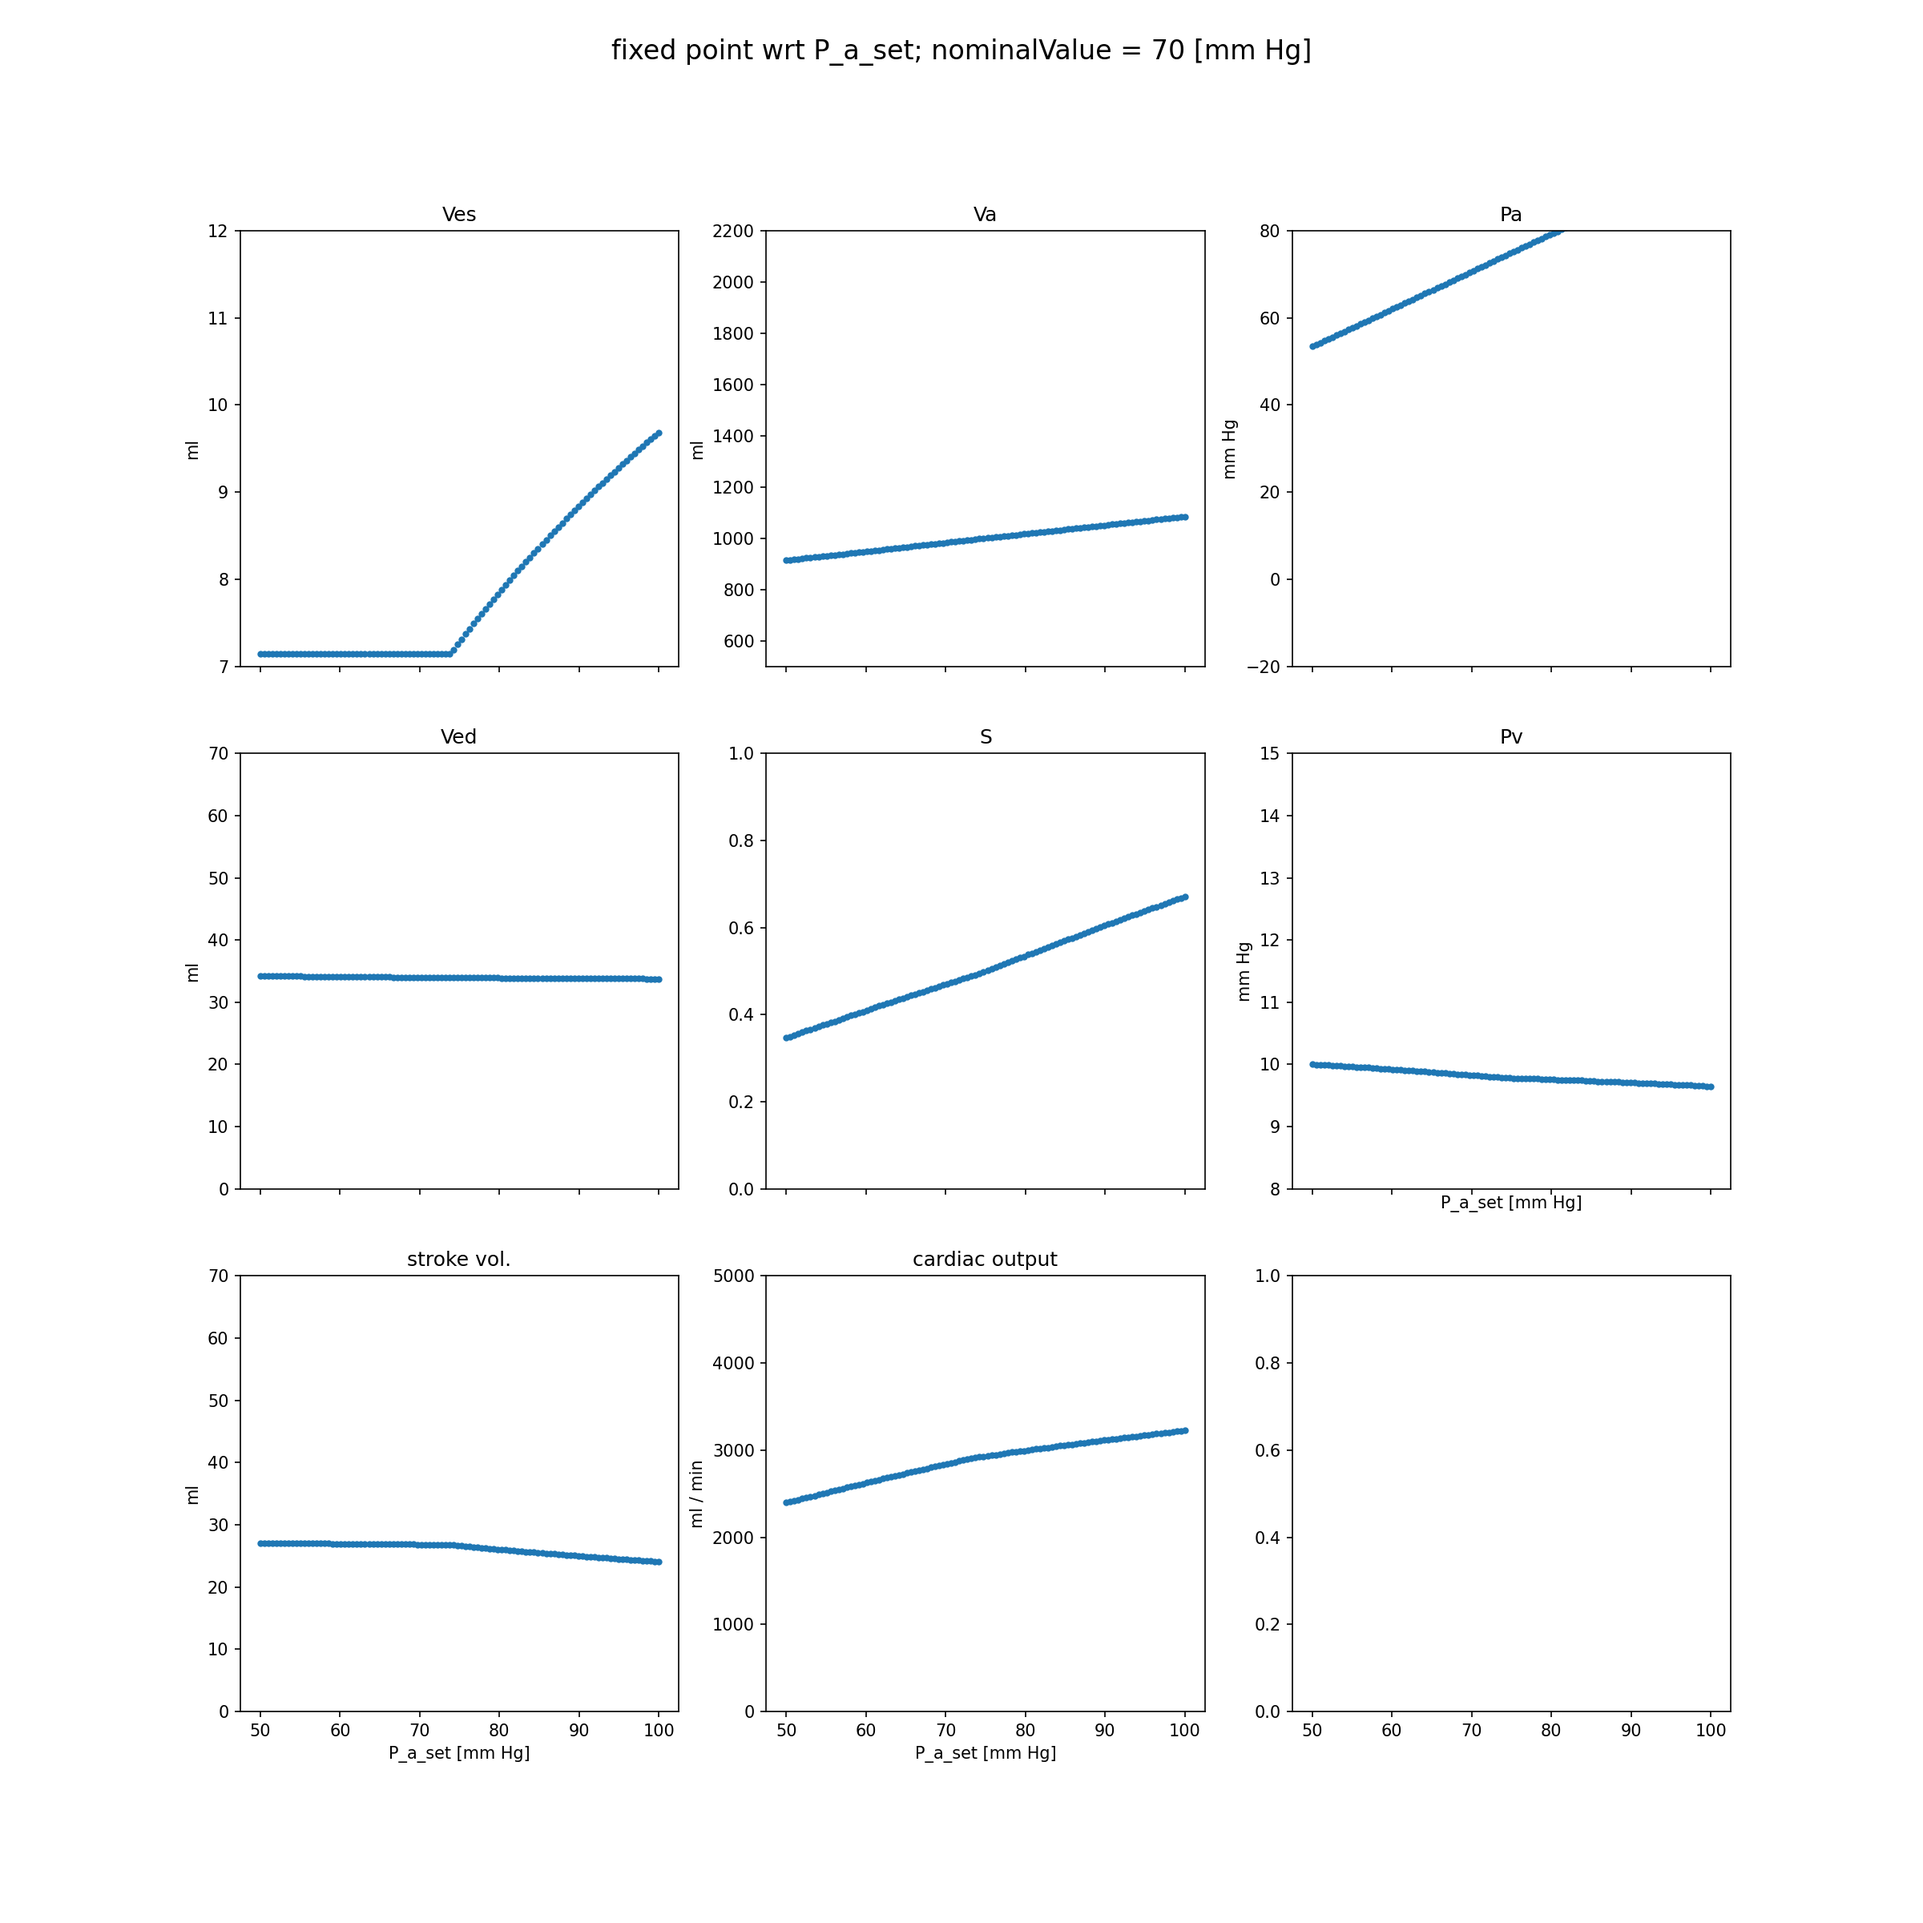
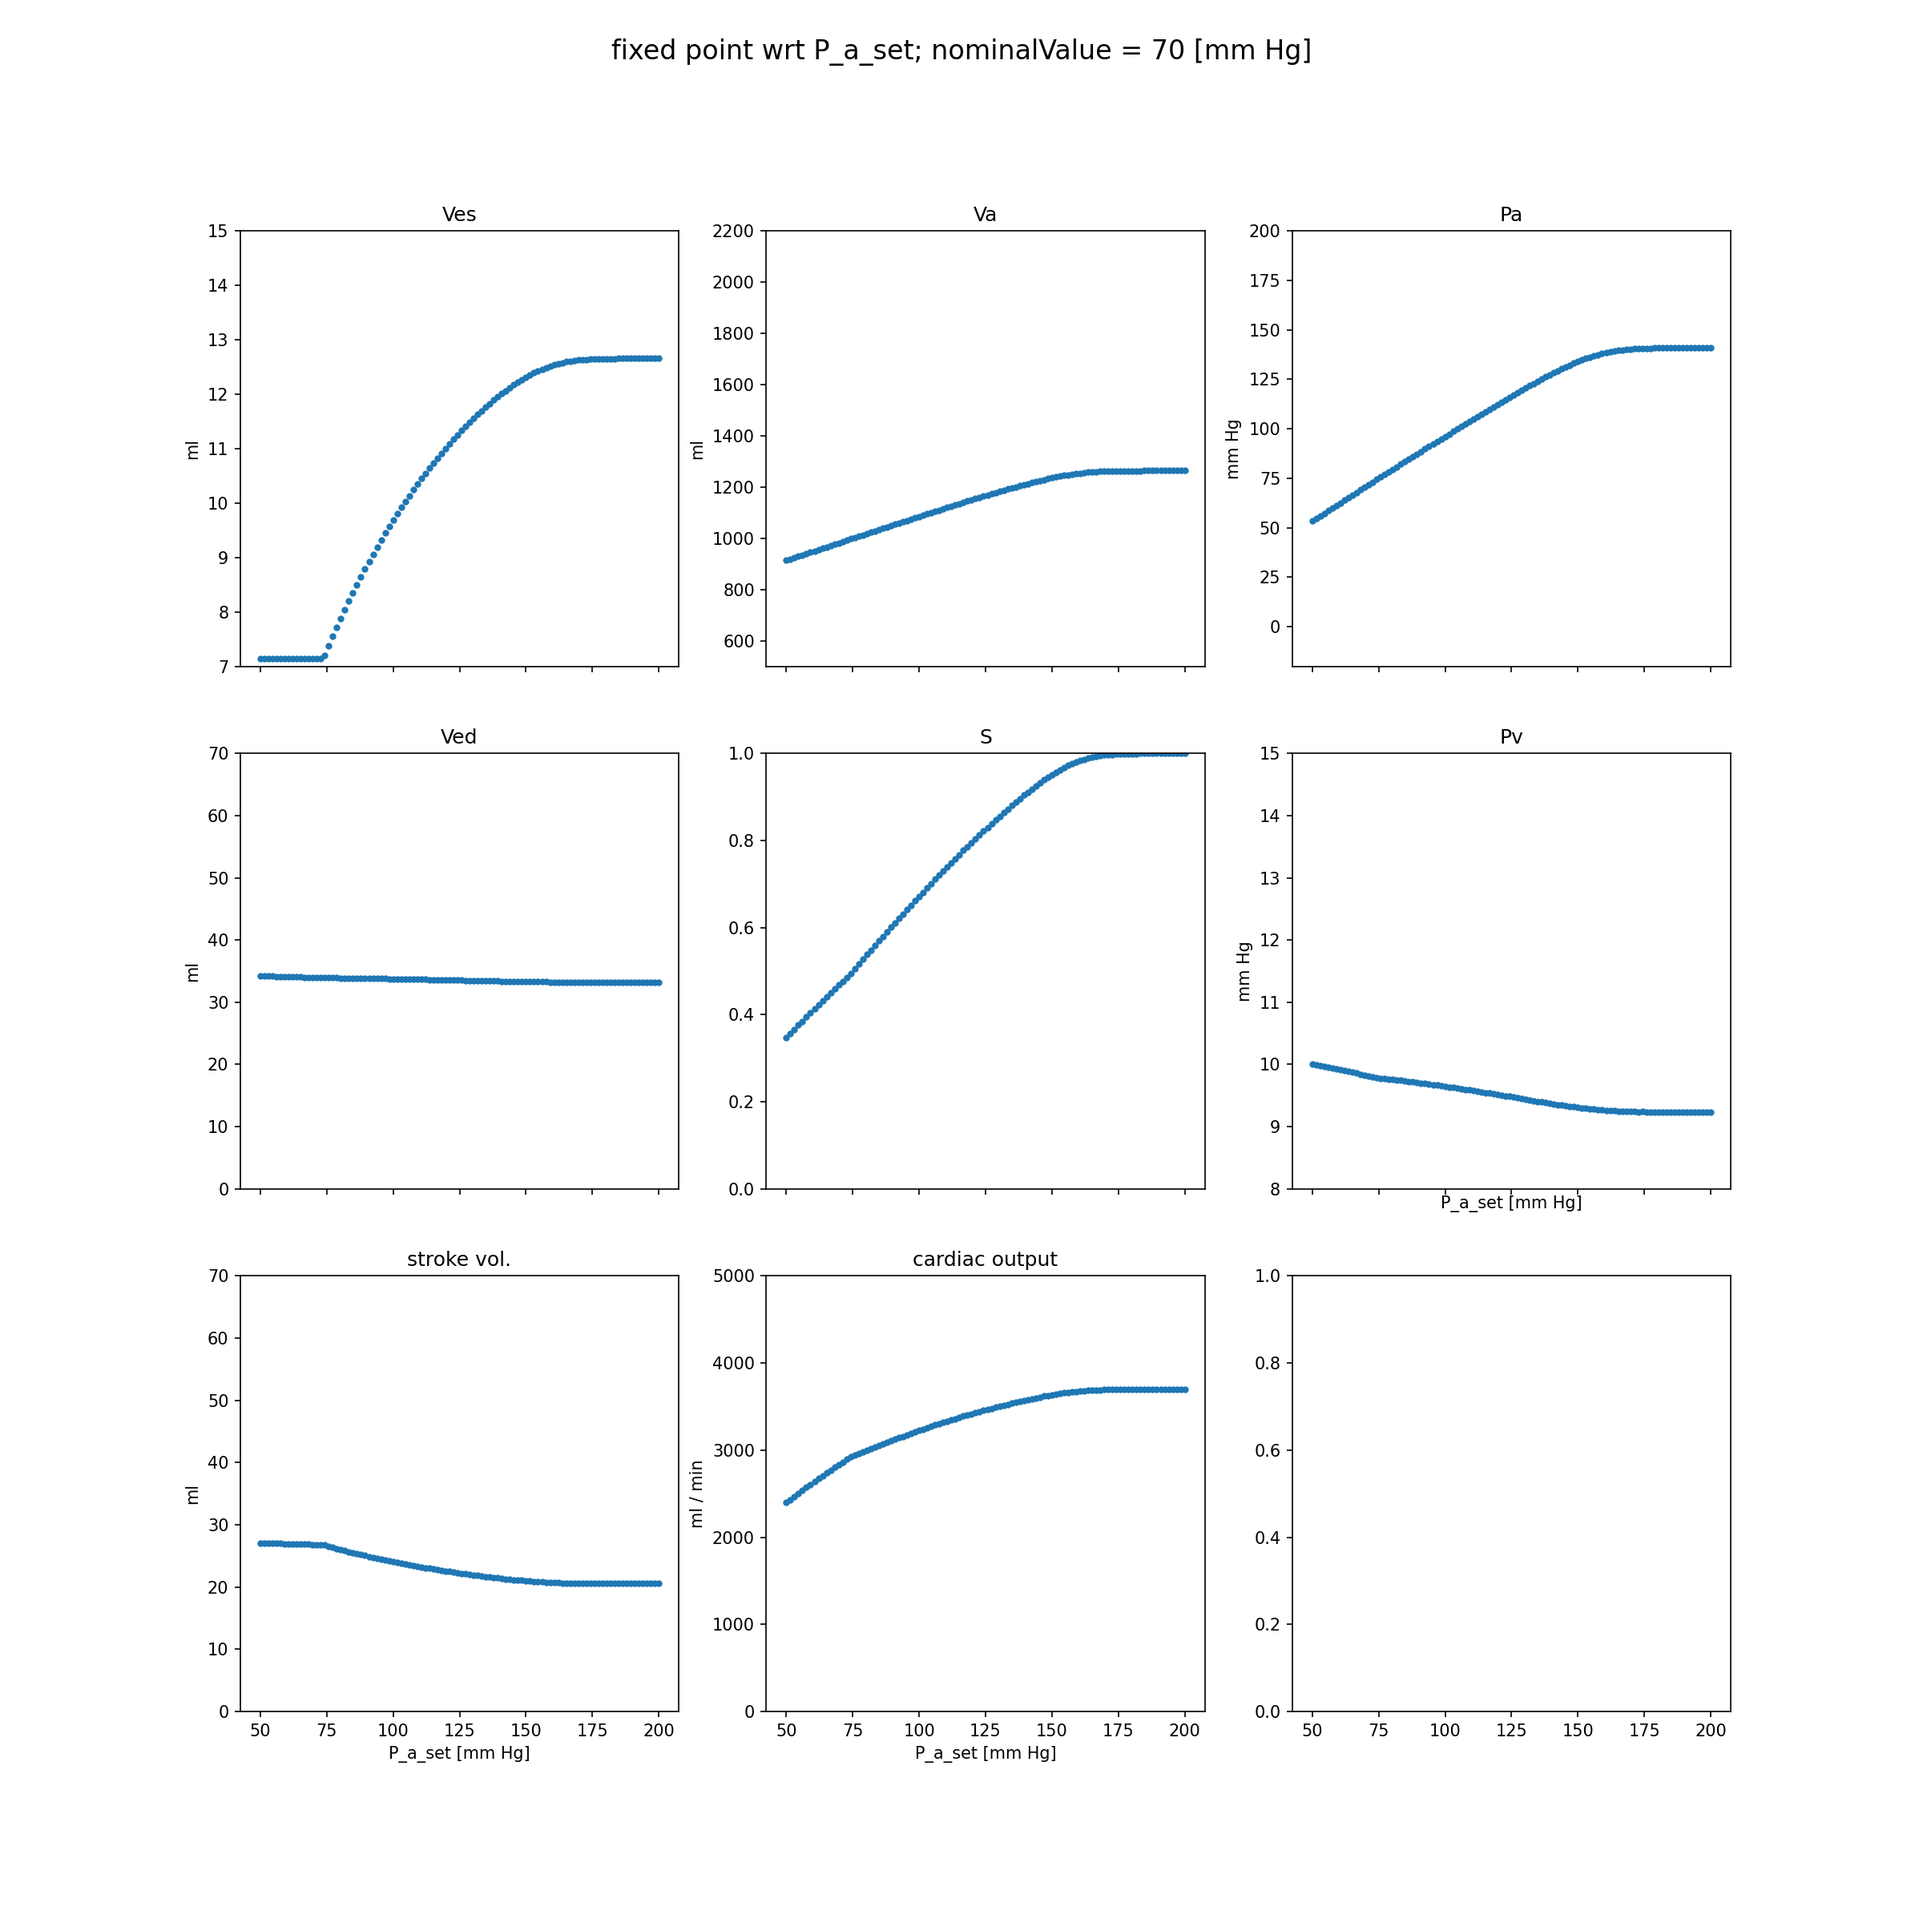
changed png

diff --git a/cardioMain.py b/cardioMain.py
@@ -51,7 +51,7 @@ if enableFixedPoint:
     print('finished ' + "C_a")
     ZenkerPatient.fixedPoint_wrt_parameterChange("systemicParamsDict", "V_t", parameterUnits = 'ml', minVal=2000, maxVal=6000, nValues=nValues, batchSize=batchSize, thr=1e-3)
     print('finished ' + "V_t")
-    ZenkerPatient.fixedPoint_wrt_parameterChange("controlParamsDict", "P_a_set", parameterUnits = 'mm Hg', minVal=50, maxVal=100, nValues=nValues, batchSize=batchSize, thr=1e-3)
+    ZenkerPatient.fixedPoint_wrt_parameterChange("controlParamsDict", "P_a_set", parameterUnits = 'mm Hg', minVal=50, maxVal=200, nValues=nValues, batchSize=batchSize, thr=1e-3)
     print('finished ' + "P_a_set")
     ZenkerPatient.fixedPoint_wrt_parameterChange("controlParamsDict", "K_width", parameterUnits = '1 / mm Hg', minVal=0.01838, maxVal=1.838, nValues=nValues, batchSize=batchSize, thr=1e-3)
     print('finished ' + "K_width")

diff --git a/cardio_func.py b/cardio_func.py
@@ -71,13 +71,13 @@ class ZenkerToolbox:
 
         # Empiric figure limits
         self.ylimDict = {
-            "Ves": [7, 12],
+            "Ves": [7, 15], # [7, 12]
             "Ved": [0, 70],
             "Vs": [0, 70],
             "Va": [500, 2200],
             "S": [0, 1],
             "CO": [0, 5000],
-            "Pa": [-20, 80],
+            "Pa": [-20, 200], # [-20, 80]
             "Pv": [8, 15]
         }
 
